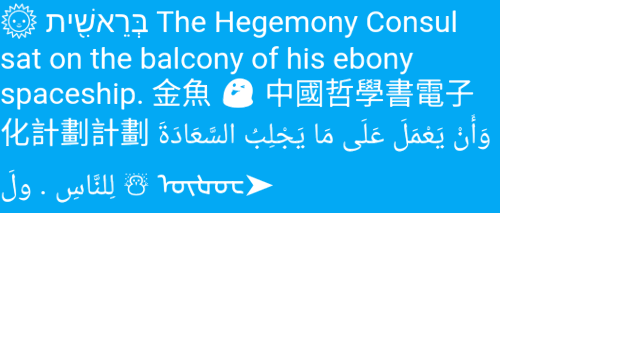
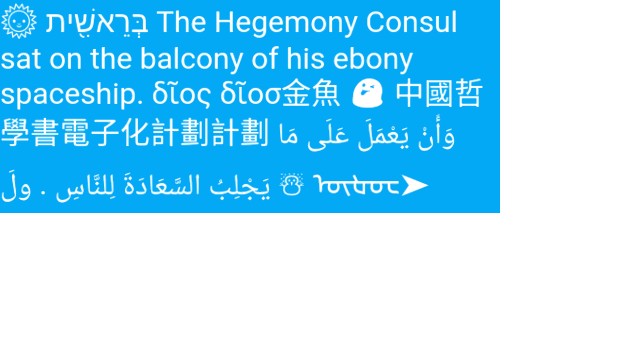
Include Greek in system fallback layout test
This verifies that b/27324908 is fixed for Cobalt.

Changed region(s): [[0.0, 0.2139, 0.7812, 0.4278], [0.1875, 0.4583, 0.6875, 0.55]]

diff --git a/cobalt/layout_tests/testdata/css3-fonts/5-2-use-system-fallback-if-no-matching-family-is-found.html b/cobalt/layout_tests/testdata/css3-fonts/5-2-use-system-fallback-if-no-matching-family-is-found.html
@@ -21,7 +21,7 @@
 </head>
 <body>
   <div class="containing-block">
-    <span>🌞 בְּרֵאשִׁ֖ית The Hegemony Consul sat on the balcony of his ebony spaceship. 金魚 😜 中國哲學書電子化計劃計劃 وَأَنْ يَعْمَلَ عَلَى مَا يَجْلِبُ السَّعَادَةَ لِلنَّاسِ . ولَ  ☃ ᠦᡈᠣᡄ➤</span>
+    <span>🌞 בְּרֵאשִׁ֖ית The Hegemony Consul sat on the balcony of his ebony spaceship. δῖος δῖοσ金魚 😜 中國哲學書電子化計劃計劃 وَأَنْ يَعْمَلَ عَلَى مَا يَجْلِبُ السَّعَادَةَ لِلنَّاسِ . ولَ  ☃ ᠦᡈᠣᡄ➤</span>
   </div>
 </body>
 </html>
